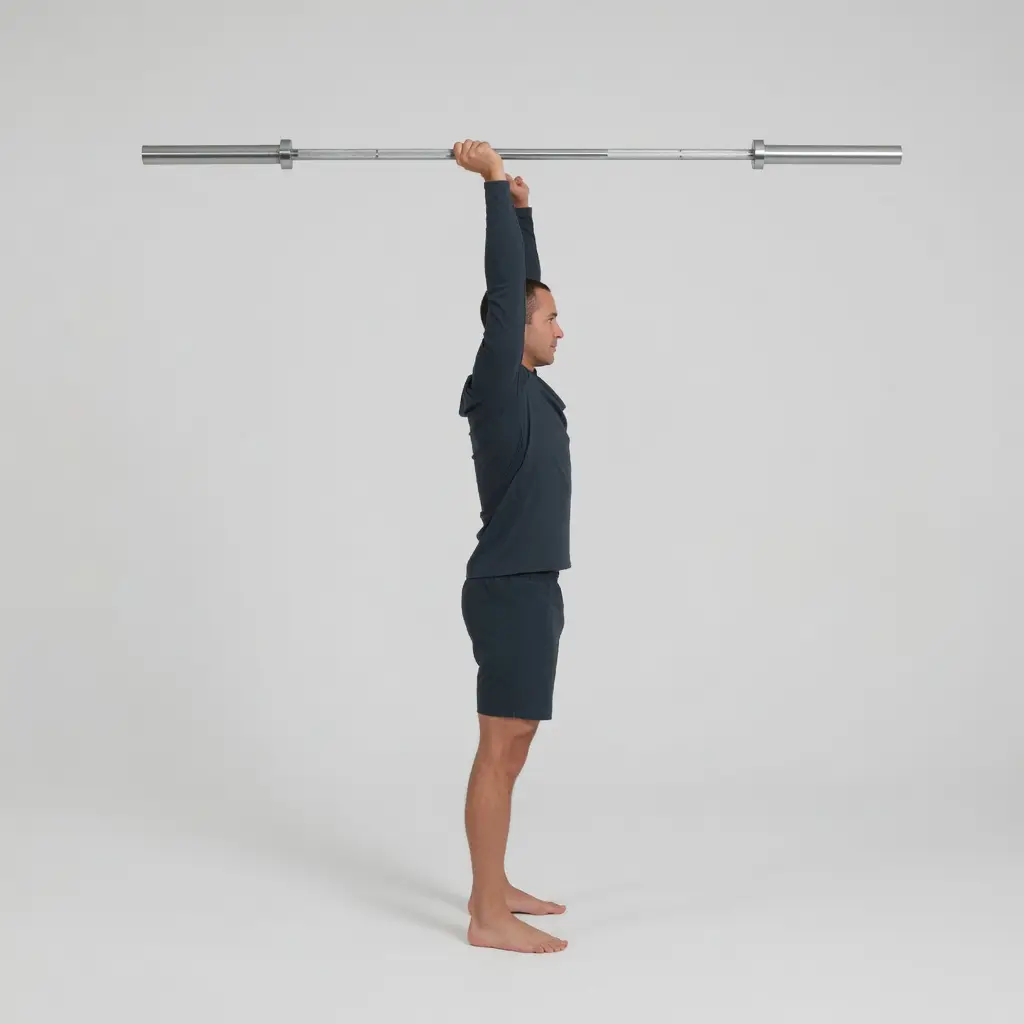
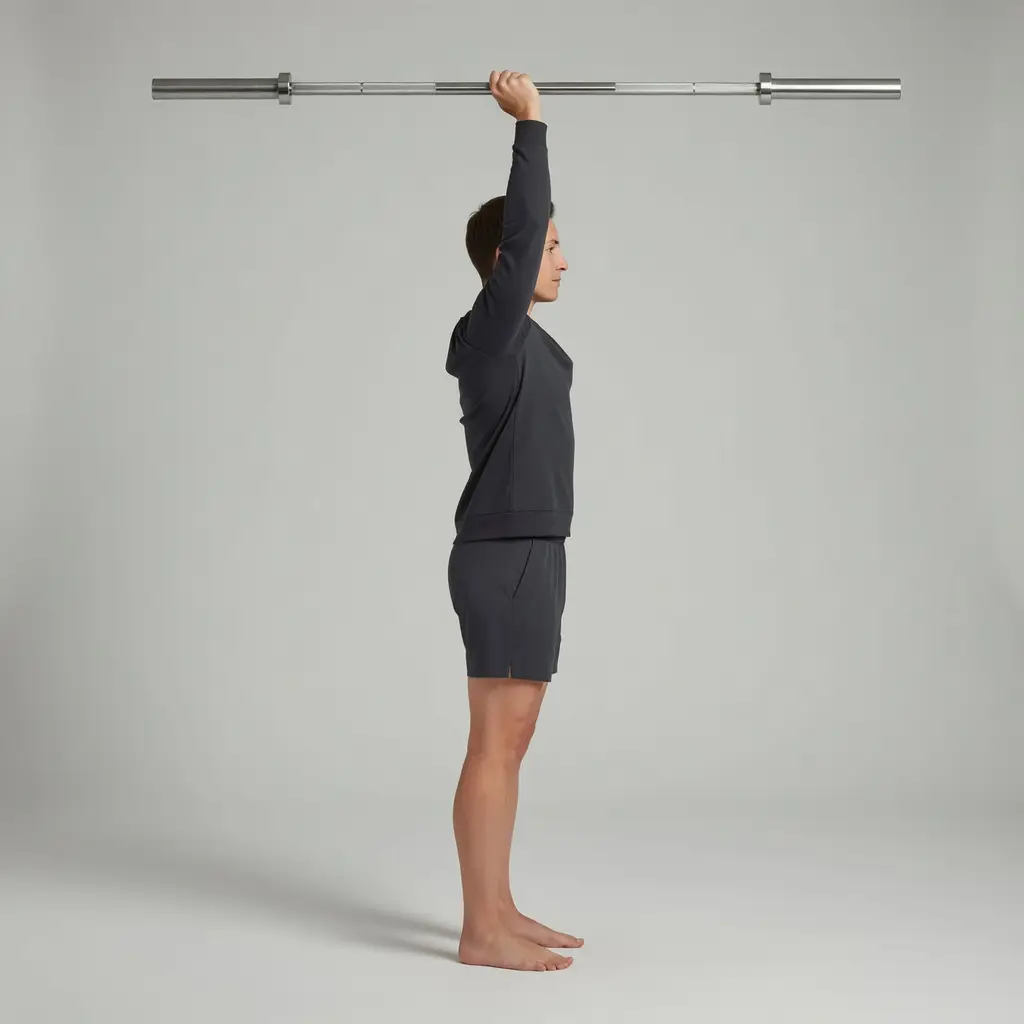
Form Index re-assemble: OHP + pull-ups stills (.504)
Re-ship demoted Form Index posters after Form Director regen with
athlete-a identity lock: two-hand empty-bar overhead press lockout;
pull-up hang setup with feet and head in frame. Re-wire SIDE_IDS;
still-only (no VIDEO). Document bulk optimize hazard in FAIL.md.

diff --git a/src/lib/formMedia.ts b/src/lib/formMedia.ts
@@ -20,15 +20,15 @@ export const FORM_PACK_SIDE_IDS = new Set([
   'air-squat',
   'romanian-deadlift',
   'push-ups',
-  // demoted .498: feet cut off frame (hard reject); hang-only not chin-over
-  // 'pull-ups',
+  // Form Director regen 2026-08-05 — hang setup, full feet/head; still-only (not chin-over)
+  'pull-ups',
   'thruster',
   'kettlebell-swing',
   'plank',
   'bench-press',
   'deadlift',
-  // demoted .498: single-arm press — wrong exercise for overhead-press id
-  // 'overhead-press',
+  // Form Director regen 2026-08-05 — two-hand empty-bar lockout; still-only (no I2V yet)
+  'overhead-press',
   'front-squat',
   'lunges',
   'glute-bridge',

diff --git a/src/lib/buildInfo.ts b/src/lib/buildInfo.ts
@@ -1,2 +1,2 @@
 /** Shown on Profile so testers can confirm the deployed build. Bump when shipping UI to master. */
-export const APP_BUILD_LABEL = '2026.07-unified.503';
+export const APP_BUILD_LABEL = '2026.07-unified.504';

diff --git a/CONTEXT.md b/CONTEXT.md
@@ -16,7 +16,7 @@ One screen of truth for any AI tool or human joining cold. Read this, then [AGEN
 
 ---
 
-## Now (2026-08-05 · web `2026.07-unified.503` · Android `1.24.1`)
+## Now (2026-08-05 · web `2026.07-unified.504` · Android `1.24.1`)
 
 > The ONLY "where we are" block in the repo — [ORCHESTRATION.md](ORCHESTRATION.md) points here.
 >
@@ -262,6 +262,7 @@ One screen of truth for any AI tool or human joining cold. Read this, then [AGEN
 > and `.501` dropped `.486` detail (full text remains in LOG.md / archive)
 > and `.502` dropped `.487` detail (full text remains in LOG.md / archive)
 > and `.503` dropped `.488` detail (full text remains in LOG.md / archive)
+> and `.504` dropped `.489` detail (full text remains in LOG.md / archive)
 > to [CONTEXT-now-2026-07-30.md](docs/archive/CONTEXT-now-2026-07-30.md) after this
 > block reached **79 bullets / 103KB**. A status doc that only grows stops being read.
 
@@ -282,9 +283,9 @@ One screen of truth for any AI tool or human joining cold. Read this, then [AGEN
 > | Migrations | **9 recorded pending** — [LAUNCH_RUNBOOK](docs/LAUNCH_RUNBOOK.md) §3, enforced by `src/lib/migrationLedger.test.ts`. |
 > | gitleaks | **green — and scanning for the first time.** It had never scanned anything: on a `pull_request` event the action lists the PR's commits, the job declared no `permissions:` block, and it 403'd (`pull_requests=read`) before opening a file. Fixed by a `permissions:` block (`.224` carrying `.255`). It scans **only the PR's own commits**, so commit `8ea3527a`'s real Solana treasury address — scrubbed from the working file, still in history — is out of its scope. That finding stands, deliberately not allowlisted; it was never what made this check red. |
 
+- **`.504`:** Form Index re-assemble — OHP + pull-ups stills PASS, re-wired SIDE_IDS.
 - **`.503`:** Kaizen K11 — History list Again + day-replay train retrain.
-- **`.502`:** Kaizen K6/K7 — basic no soft-Coach boss; History Train this again.
-- **`.501`–`.500`:** Coach density, week-1 contract, Today language, Active empty.
+- **`.502`–`.500`:** Kaizen K6/K7, Coach density, Today language, Active empty.
 - **`.499`–`.474`:** readiness train-first, dual-pad bridges, docs/i18n residual.
 - **Horizon W — wedge excellence.** Web craft 1–6 + **Fuel estimate accuracy** (edit-before-log, better NL match, honest photo sources).
 - **Free-first beta (~4 weeks):** LLC + EIN pending — **no Bundle UI** + **full depth unlocked** + **full More nav** (journey train-only deferred) ([docs/FREE_BETA.md](docs/FREE_BETA.md)).

diff --git a/LOG.md b/LOG.md
@@ -10,6 +10,12 @@ Archive: [2026-06 → 2026-07-20](docs/archive/log/LOG-2026-06_to_2026-07-20.md)
 
 ---
 
+## 2026-08-05 — Form Index re-assemble OHP + pull-ups (`.504`)
+
+Re-ship demoted stills (`.498` eyes-on FAIL): overhead-press two-hand empty-bar lockout; pull-ups dead-hang setup with feet/head in frame. Athlete-a Form Director edit → inbox → optimize → re-wire `FORM_PACK_SIDE_IDS` (still-only; no VIDEO). Restored bulk optimize overwrites on other packs.
+
+Mutants: OHP/pull-ups missing from SIDE_IDS after regen → red.
+
 ## 2026-08-05 — Kaizen K11: History day + list retrain (`.503`)
 
 Extend History → Train: session list **Again** (ghost, no wipe of logged active work) + day replay train entries use `logFromTrainJournalId` → same retrain path. Shared `retrainFromLog` on HistoryPage. Pure journal id prefix matches `gatherJournalEntries` `train-${id}`.
@@ -101,10 +107,3 @@ Mutants: POSTCSS_FLOOR 9.0.0 → red; pack/public disagree on hi key → footpri
 `.484` fixed machine-translated `{{peso}}`-style keys, but the extractor used `\w` (ASCII-only in JS). Hindi/Thai/Vietnamese packs still shipped `{{गिनती}}`, `{{นาที}}`, `{{trọng lượng}}` — runtime left literals; the guard skipped them because `got.size === 0`. Rewrote 36 keys (hi 27, vi 7, th 2) to English names; synced `public/locales`. Extractor is now `{{([^}]+)}}` + ASCII-ident check; pin test fails if `\w` returns.
 
 Mutants: restore `\w` extractor → pin red; hi `{{गिनती}}` again → main test red.
-
-
-## 2026-08-05 — Next 16.3.0 + locale public/pack parity (`.489`)
-
-Kaizen night A residual: bump `next` `^16.2.12` → `^16.3.0` (lockfile resolves 16.3.0). Sync `public/locales/**` to `src/i18n/packs` where pack placeholder rewrites from `.484` had not landed on the HTTP override copy (localeFootprint drift: e.g. ja `{{unit}}` vs `{{単位}}`). `formPatterns` test accepts Form Index video packs for front-squat (`.477`) while pinning OHP still-only.
-
-Mutants: public/ja unit as `{{単位}}` again → footprint red; front-squat still-only assert only → pack video green path breaks.

diff --git a/media/form-kit/qa/FAIL.md b/media/form-kit/qa/FAIL.md
@@ -74,3 +74,12 @@ Log every rejected generation. Do not re-ship the same glitch.
 | 2026-08-05 | `pull-ups/side.webp` | Feet cut off frame (hard reject); hang-only not chin-over | Demoted from `FORM_PACK_SIDE_IDS` |
 
 Validation protocol: [MOVEMENT_STANDARDS.md](MOVEMENT_STANDARDS.md) (CrossFit demos = reference only).
+
+## 2026-08-05 — Form Director re-assemble (demotes fixed)
+
+| Date | Asset | Notes |
+|------|--------|--------|
+| 2026-08-05 | `overhead-press/side.webp` | Athlete-a lock · two-hand empty-bar lockout · head + full body · PASS → re-wire SIDE_IDS (still-only; no VIDEO) |
+| 2026-08-05 | `pull-ups/side.webp` | Athlete-a lock · dead-hang setup · feet + head in frame · PASS → re-wire SIDE_IDS (still-only; chin-over still hard) |
+
+**Process note:** `npm run media:optimize-inbox` rewrites **every** matching inbox frame. Isolate regen targets before optimize, or `git checkout` other `public/form/*` after a bulk run.

diff --git a/docs/archive/log/LOG-rotate-504-form.md b/docs/archive/log/LOG-rotate-504-form.md
@@ -1,0 +1,5 @@
+## 2026-08-05 — Next 16.3.0 + locale public/pack parity (`.489`)
+
+Kaizen night A residual: bump `next` `^16.2.12` → `^16.3.0` (lockfile resolves 16.3.0). Sync `public/locales/**` to `src/i18n/packs` where pack placeholder rewrites from `.484` had not landed on the HTTP override copy (localeFootprint drift: e.g. ja `{{unit}}` vs `{{単位}}`). `formPatterns` test accepts Form Index video packs for front-squat (`.477`) while pinning OHP still-only.
+
+Mutants: public/ja unit as `{{単位}}` again → footprint red; front-squat still-only assert only → pack video green path breaks.

diff --git a/docs/archive/INDEX.md b/docs/archive/INDEX.md
@@ -1,3 +1,4 @@
+| [log/LOG-rotate-504-form.md](./log/LOG-rotate-504-form.md) | rotated oldest for `.504` form reassemble |
 # docs/archive/
 
 > Superseded planning docs moved here when explicitly retired (Wave 9).
